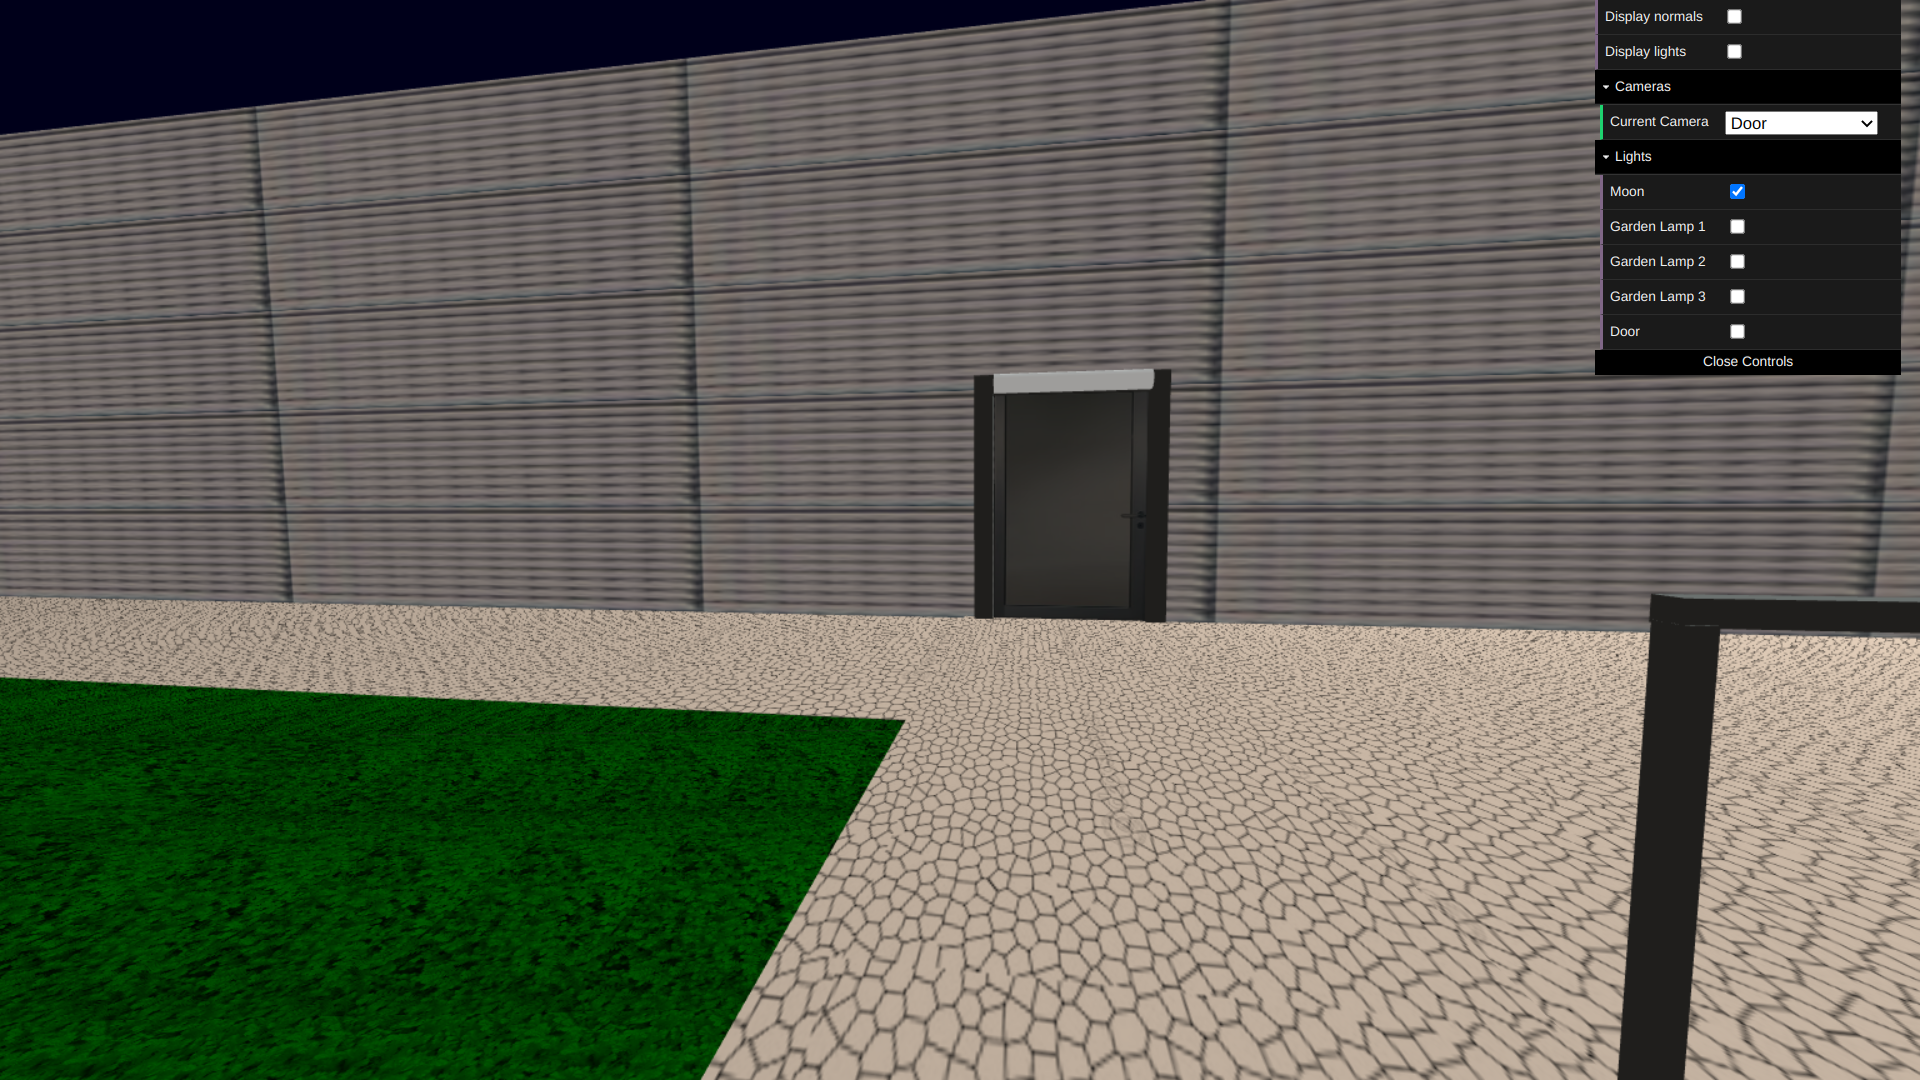
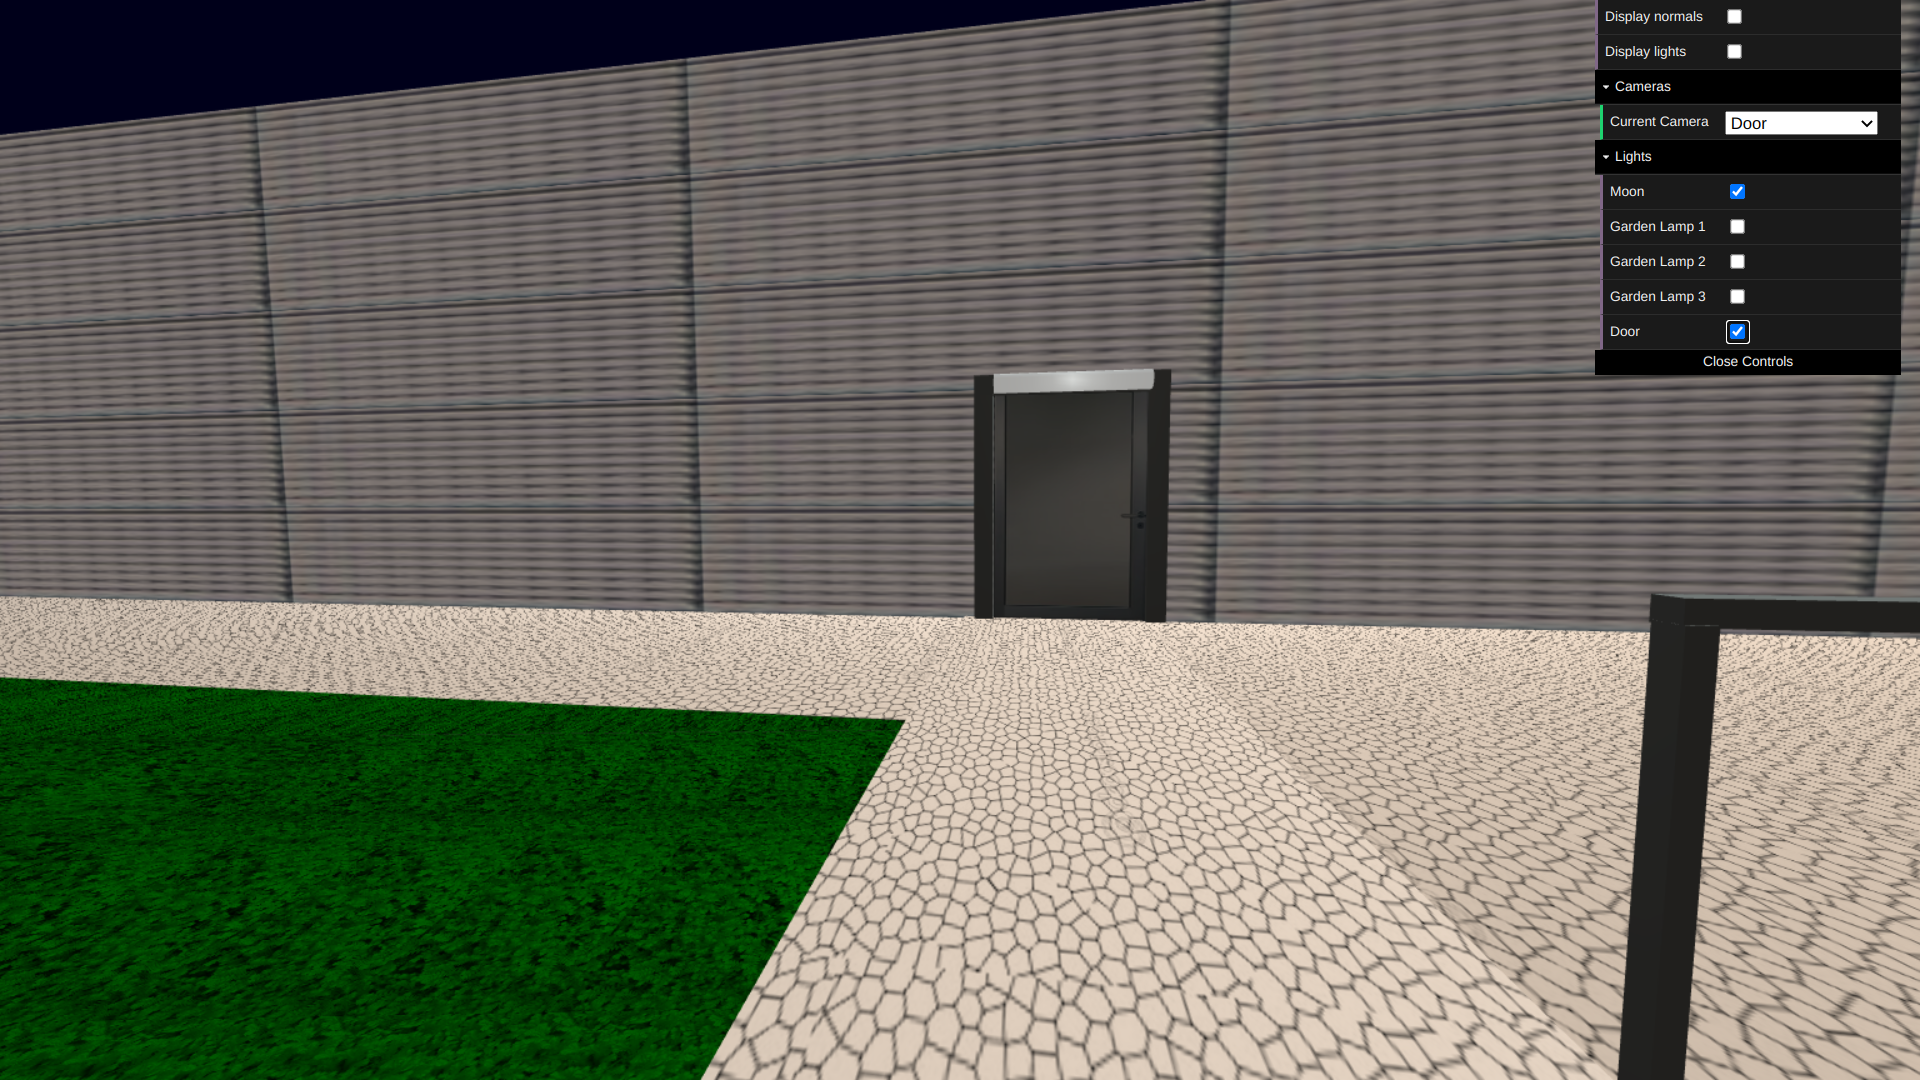
Add screenshots references

Changed region(s): [[0.0, 0.55, 0.8438, 1.0], [0.5312, 0.3361, 0.5938, 0.3667]]

diff --git a/tp1/README.md b/tp1/README.md
@@ -12,20 +12,13 @@
 ## Project information
 
 - Individual and documented functions for each step of the parser, where each one of them is responsible for parsing each XML tag
-
 - Error display and warnings when missing values or properties of elements of the XML file
-
 - All the primitives were implemented with the required vertices, faces, and normals. Also have texture implementation on those primitives, except the re-dimension of the textures coordinates on Sphere, Torus, and Cylinder.
-
 - Implementation of inheritance of components transformations, passing the transformation matrix of a node (Ma) to the respective children nodes and applying the transformations of the children node (Mp) after the transformations of the parent (M=Ma*Mp). We also apply a transformation referenced by the transformationref tag. Reporting errors when wrong transformation specifications or invalid transformationref id property (not defined before)
-
 - Implementation of inheritance of components materials, passing to the children material the parent material (if the material of the children is "inherit") or applying the respective material defined. Report errors when wrong material specification or invalid material id property introduced (not defined before)
-
 - Implementation of inheritance of components texture, passing to the children texture the parent texture (if the texture of the children is inherit) or applying the respective texture (none or the texture defined, with the respective lengths). Warning in the console when no length_s or/and no length_t are introduced in texture (in that case we use length_s and length_t with value 1). 
-
 - Verification of non-existent component references giving an error when the reference is not found
 - Verification of components graph cycles giving an error when there is a cycle
-
 - Implementation of a graphic interface with the following options:
   - display normal (shows components/objects normals)
   - display lights (shows the defined lights on the scene)
@@ -35,9 +28,10 @@
 ----
 
 ### Scene
-  - The scene consists of the main garden of the FEUP Campus. This scene includes part of the corridor next to the different departments with windows and supporting columns, the bridge between building B and the others, and the staircase under this bridge. The bridge is supported by circular pillars. In the garden are the legacy seats and some colorful poufs, as well as three lamps, one of them surrounded by an innovative circular wood seat. The scene also contains buildings F and G next to the corridor on the left side of the stairs and building B on the right. Building B also contains a door with a light on top of it, illuminating its entry.
-  - (relative link to the scene)
+  - The [scene](screenshots/feup.png) consists of the main [garden](screenshots/garden.png) of the FEUP Campus. This scene includes part of the corridor next to the different departments with windows and supporting columns, the bridge between building B and the others, and the [staircase](screenshots/front.png) under this bridge. The bridge is supported by circular pillars and have [rails](screenshots/rails.png) on it. In the garden are the [legacy seats](screenshots/bench.png) and some colorful [poufs](screenshots/poufs.png), as well as three [lamps](screenshots/lamp.png), one of them surrounded by an innovative [circular wood seat](screenshots/circular_bench.png). The scene also contains buildings F and G next to the corridor on the left side of the stairs and building B on the right. Building B also contains a [door](screenshots/door_off.png) with a [light](screenshots/door_on.png) on top of it, illuminating its entry. To complete the scene there is a [moon](screenshots/garden_back.png) illuminating the all scene.
+
 ----
+
 ## Issues/Problems
 
 - We believe all the features were implemented and there are no found bugs.
